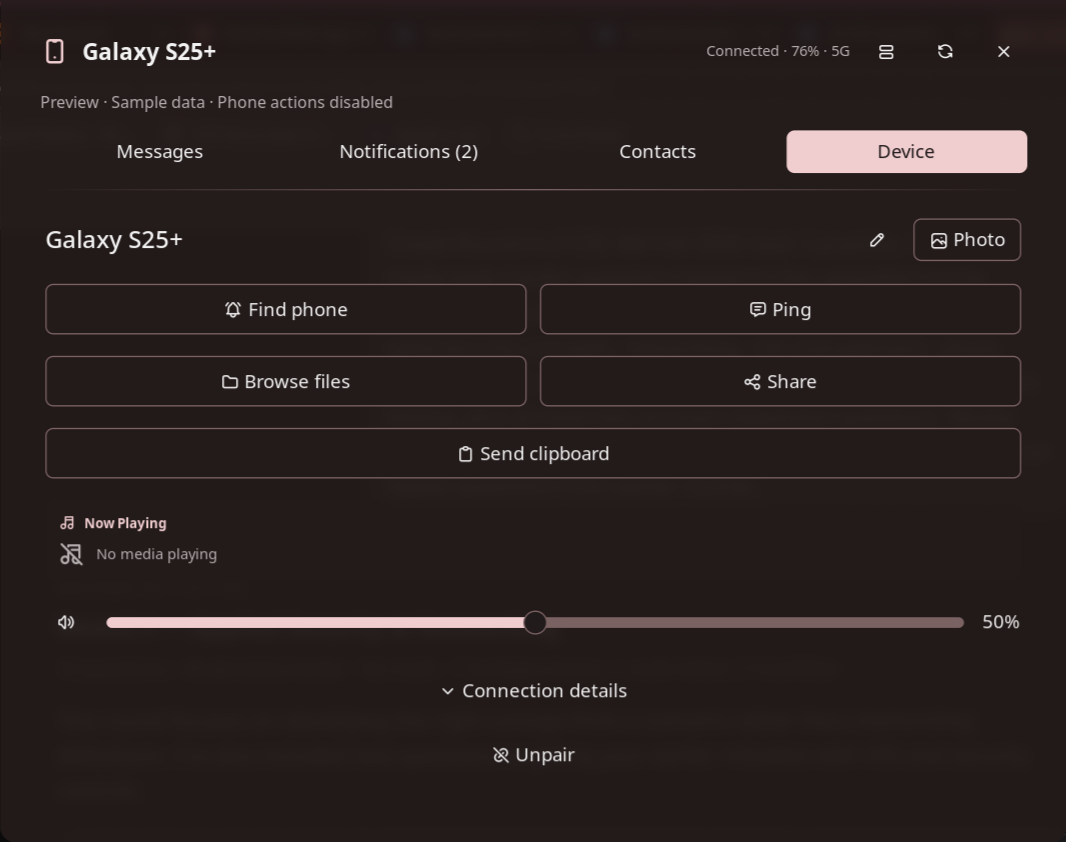
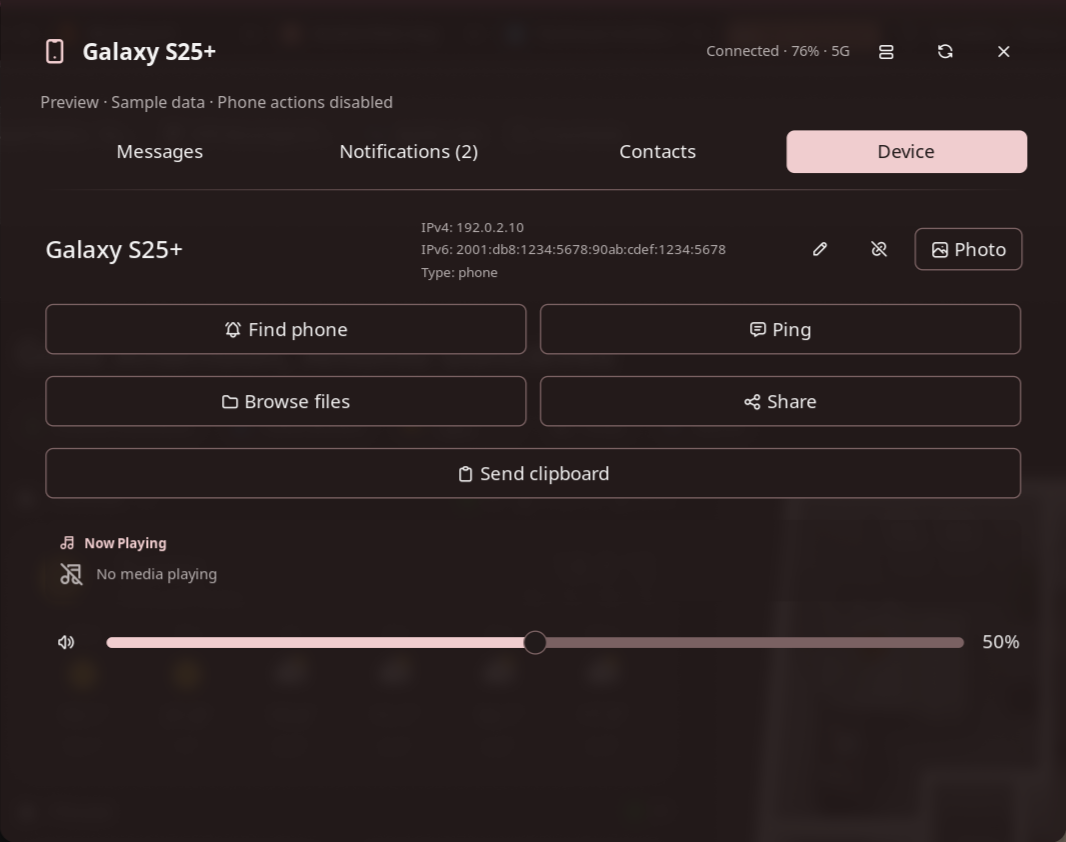
refactor(phone-connect): compact device details into the identity row

diff --git a/phone-connect/README.md b/phone-connect/README.md
@@ -41,7 +41,8 @@ noctalia msg panel-toggle icefish/phone-connect:details_widget
   Refresh asks KDE Connect to sync.
   Results are paged to keep large address books responsive; search covers all contacts.
 - **Device** contains Find phone, Ping, files, clipboard, sharing, media playback,
-  volume, avatar/alias editing, pairing, and connection details. Unpair requires
+  volume, avatar/alias editing, and pairing. Connection details appear in small
+  muted text beside the phone name. The Unpair icon sits next to Edit and opens
   a confirmation in the panel.
 
 The header's layout button switches between the wide two-pane view and compact
